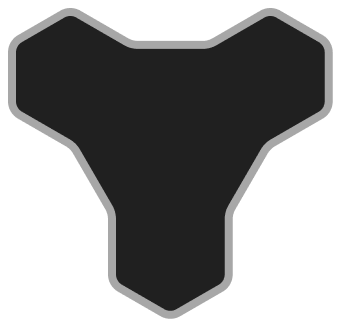
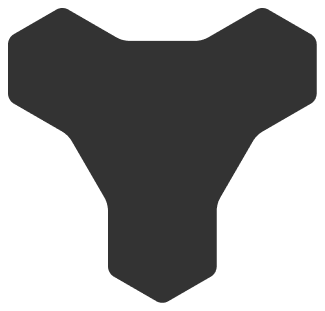
Add module drag-n-drop

Changed region(s): [[0.0, 0.0, 0.9846, 0.9839]]

diff --git a/ui/inventory/InventoryModule.cs b/ui/inventory/InventoryModule.cs
@@ -35,6 +35,7 @@ public partial class InventoryModule : TextureButton
     {
         _moduleTexture = GetNode<TextureRect>("ModuleTexture");
 
+        SelfModulate = Module.Color;
         TextureNormal = Module.Shape.Texture;
         _moduleTexture.Texture = Module.Texture;
         _material = (ShaderMaterial)Material;
@@ -47,15 +48,29 @@ public partial class InventoryModule : TextureButton
 
         MouseEntered += OnMouseEnter;
         MouseExited += OnMouseExit;
+        InventoryManager.Instance.Connect(
+            InventoryManager.SignalName.InventoryOpened,
+            Callable.From(StopFollowingCursor)
+        );
     }
 
     private void OnMouseEnter()
     {
+        if (_isFollowingCursor)
+        {
+            return;
+        }
+        
         ShowModuleInfo();
     }
     
     private void OnMouseExit()
     {
+        if (_isFollowingCursor)
+        {
+            return;
+        }
+        
         HideModuleInfo();
     }
 
@@ -103,7 +118,7 @@ public partial class InventoryModule : TextureButton
                 }
             }
             
-            var allSlotsHovered = hoveredSlots.Count == Module.Shape.TileCount; 
+            var allSlotsHovered = hoveredSlots.Count == Module.Shape.Tiles.Count; 
 
             if (hoveredSlots.Count == 0)
             {
@@ -128,37 +143,60 @@ public partial class InventoryModule : TextureButton
         MoveToTargetPosition(delta);
     }
 
-    public void TryInsertIntoSlot(InventorySlot slot)
+    public bool TryInsert(InventorySlot centerSlot)
     {
-        
-    }
+        var inventory = centerSlot.Inventory;
 
-    public void MoveToSlotInstantly()
-    {
-        if (Slots.Count > 0)
+        List<InventorySlot> slots = []; 
+        foreach (var hex in Module.Shape.Tiles)
         {
-            _targetPosition = Slots.Select(slot => slot.GetGlobalRect().GetCenter()).Center();
-            GlobalPosition = _targetPosition;
+            var slot = inventory.TryGetSlot(centerSlot.Coordinates + hex);
+            if (slot == null || slot.HasModule() || slot.IsDisabled())
+            {
+                return false;
+            }
+            
+            slots.Add(slot);
         }
+
+        Slots = slots;
+        return true;
     }
 
     public void StartFollowingCursor()
     {
+        if (_isFollowingCursor)
+        {
+            return;
+        }
+        
+        HideModuleInfo();
         _isFollowingCursor = true;
         ZIndex += 1;
     }
 
     public void StopFollowingCursor()
     {
+        if (!_isFollowingCursor)
+        {
+            return;
+        }
+        
+        if (IsHovered())
+        {
+            ShowModuleInfo();
+        }
+        
         _isFollowingCursor = false;
         ZIndex -= 1;
     }
 
     private void MoveToTargetPosition(double delta)
     {
-        var position = GlobalPosition;
+        var position = this.GetCenterGlobalPosition();
         if (position.IsEqualApprox(_targetPosition))
         {
+            SetStretchAmount(0);
             return;
         }
 
@@ -177,9 +215,9 @@ public partial class InventoryModule : TextureButton
             _targetPosition.Y,
             followSpeed * (float)delta * distanceToY
         );
-        GlobalPosition = new Vector2(x, y);
+        this.SetCenterGlobalPosition(new Vector2(x, y));
 
-        var positionDelta = GlobalPosition.DistanceTo(position);
+        var positionDelta = this.GetCenterGlobalPosition().DistanceTo(position);
         var stretchAmount = Clamp(StretchAmountPerPixel * positionDelta, 0, 2);
         SetStretchAmount(stretchAmount);
     }

diff --git a/ui/inventory/slot/InventorySlot.cs b/ui/inventory/slot/InventorySlot.cs
@@ -21,7 +21,8 @@ public partial class InventorySlot : TextureButton
     private static readonly AudioStream HoverSound = GD.Load<AudioStream>("uid://djdfrb1kcmfle");
     private static readonly AudioStream ClickSound = GD.Load<AudioStream>("uid://cry6gufmuccda");
     private static readonly AudioStream ButtonUpSound = GD.Load<AudioStream>("uid://cpqn2k806hyjd");
-    
+
+    public ModuleInventory Inventory { get; private set; } = null!;
     public HexCoordinates Coordinates { get; private set; }
 
     private Glow _glow = null!;
@@ -32,9 +33,10 @@ public partial class InventorySlot : TextureButton
 
     private static readonly PackedScene Scene = GD.Load<PackedScene>("uid://dilsv34jaqcrd");
 
-    public static InventorySlot Create(HexCoordinates coordinates)
+    public static InventorySlot Create(ModuleInventory inventory, HexCoordinates coordinates)
     {
         var node = Scene.Instantiate<InventorySlot>();
+        node.Inventory = inventory;
         node.Coordinates = coordinates;
         return node;
     }
@@ -102,15 +104,6 @@ public partial class InventorySlot : TextureButton
             _glow.Radius = glowRadius;
             _glowTween?.Kill();
         }
-    }
-    
-    public void InsertModule(InventoryModule module)
-    {
-        RemoveModule();
-        InventoryManager.Instance.AddChild(module);
-        _module = module;
-        //module.Slot = this;
-        _module.MoveToSlotInstantly();
     }
 
     public InventoryModule? GetModule()

diff --git a/util/NodeExtensions.cs b/util/NodeExtensions.cs
@@ -5,5 +5,15 @@ public static class NodeExtensions
     {
         Callable.From(() => node.AddChild(child)).CallDeferred();
     }
+
+    public static Vector2 GetCenterGlobalPosition(this Control control)
+    {
+        return control.GetGlobalRect().GetCenter();
+    }
+    
+    public static void SetCenterGlobalPosition(this Control control, Vector2 position)
+    {
+        control.GlobalPosition = position - control.GetSize() / 2;
+    }
     
 }

diff --git a/ui/inventory/ModuleInventory.cs b/ui/inventory/ModuleInventory.cs
@@ -26,9 +26,14 @@ public partial class ModuleInventory : Control
         CreateSlots(centerSlotPosition);
     }
 
-    public InventorySlot? GetSlot(HexCoordinates coordinates)
+    public InventorySlot? TryGetSlot(HexCoordinates coordinates)
     {
         return _slots.GetValueOrDefault(coordinates);
+    }
+    
+    public InventorySlot GetSlot(HexCoordinates coordinates)
+    {
+        return _slots[coordinates];
     }
 
     public List<InventorySlot> GetSlots()
@@ -46,7 +51,7 @@ public partial class ModuleInventory : Control
             var position = center + hex.ToVector() * DistanceBetweenSlots;
             var correctedPosition = position - new Vector2(DistanceBetweenSlots / 2, DistanceBetweenSlots / 2);
             
-            var slot = InventorySlot.Create(hex);
+            var slot = InventorySlot.Create(this, hex);
             slot.GlobalPosition = correctedPosition;
             if (hex.Length() == radius - 1)
             {

diff --git a/ui/inventory/InventoryManager.cs b/ui/inventory/InventoryManager.cs
@@ -53,6 +53,12 @@ public partial class InventoryManager : Control
 
     private void PostSetup()
     {
+        var module = ModuleManager.GetModule<BoltModule>();
+        var inventoryModule = InventoryModule.Create(module);
+        AddChild(inventoryModule);
+        var slot = LeftBlasterInventory.GetSlot(HexCoordinates.Zero);
+        inventoryModule.TryInsert(slot);
+        
         Close();
         Visible = false;
     }

diff --git a/module/shape/ModuleShape.cs b/module/shape/ModuleShape.cs
@@ -59,6 +59,4 @@ public abstract partial class ModuleShape : Resource
         }
     }
     
-    public int TileCount => Tiles.Count + 1;
-    
 }

diff --git a/module/shape/ModuleShapeTriple.cs b/module/shape/ModuleShapeTriple.cs
@@ -11,6 +11,6 @@ public partial class ModuleShapeTriple : ModuleShape
     public override List<HexCoordinates> Tiles => [
         HexCoordinates.Zero, 
         HexCoordinates.Right, 
-        HexCoordinates.TopRight
+        HexCoordinates.BottomRight
     ];
 }